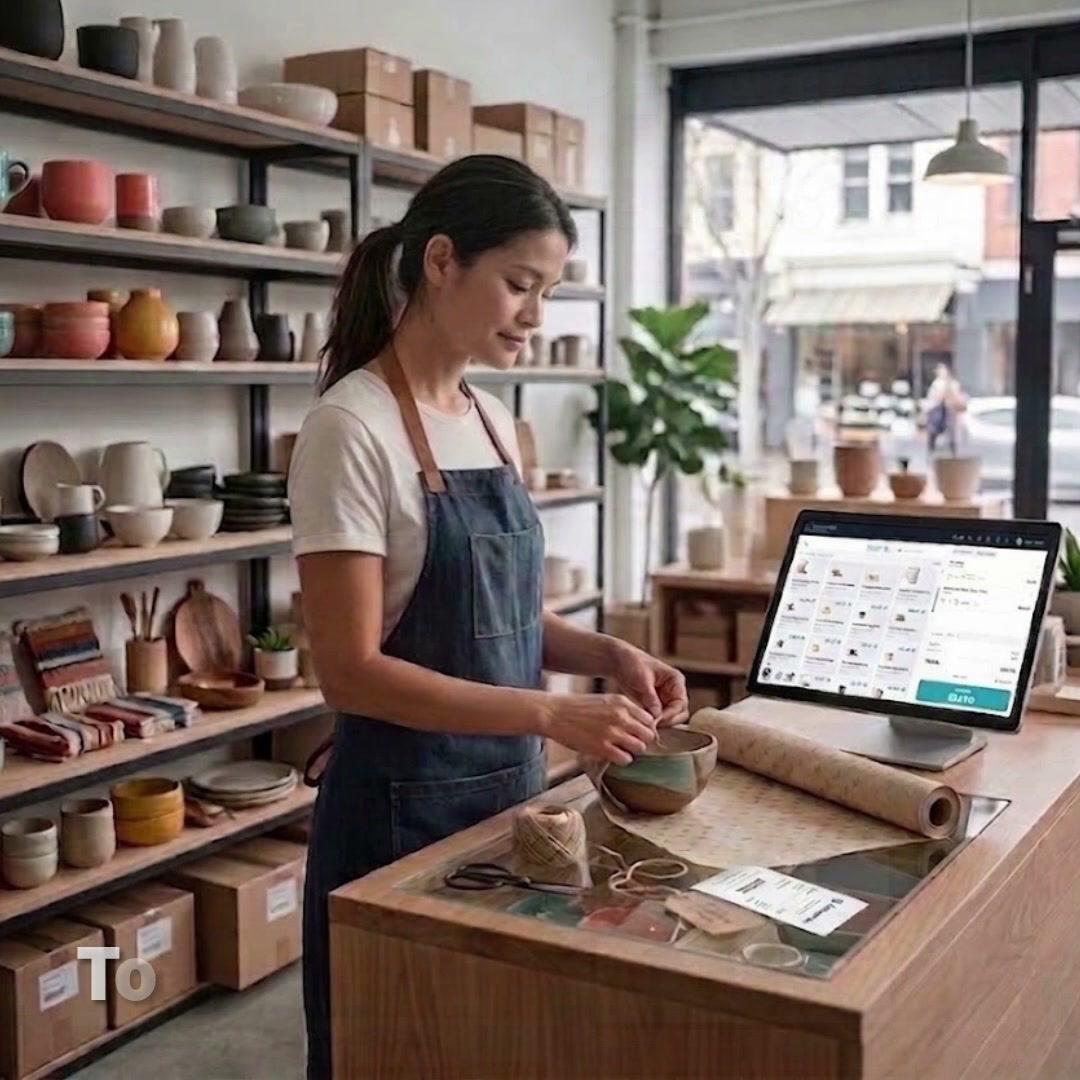
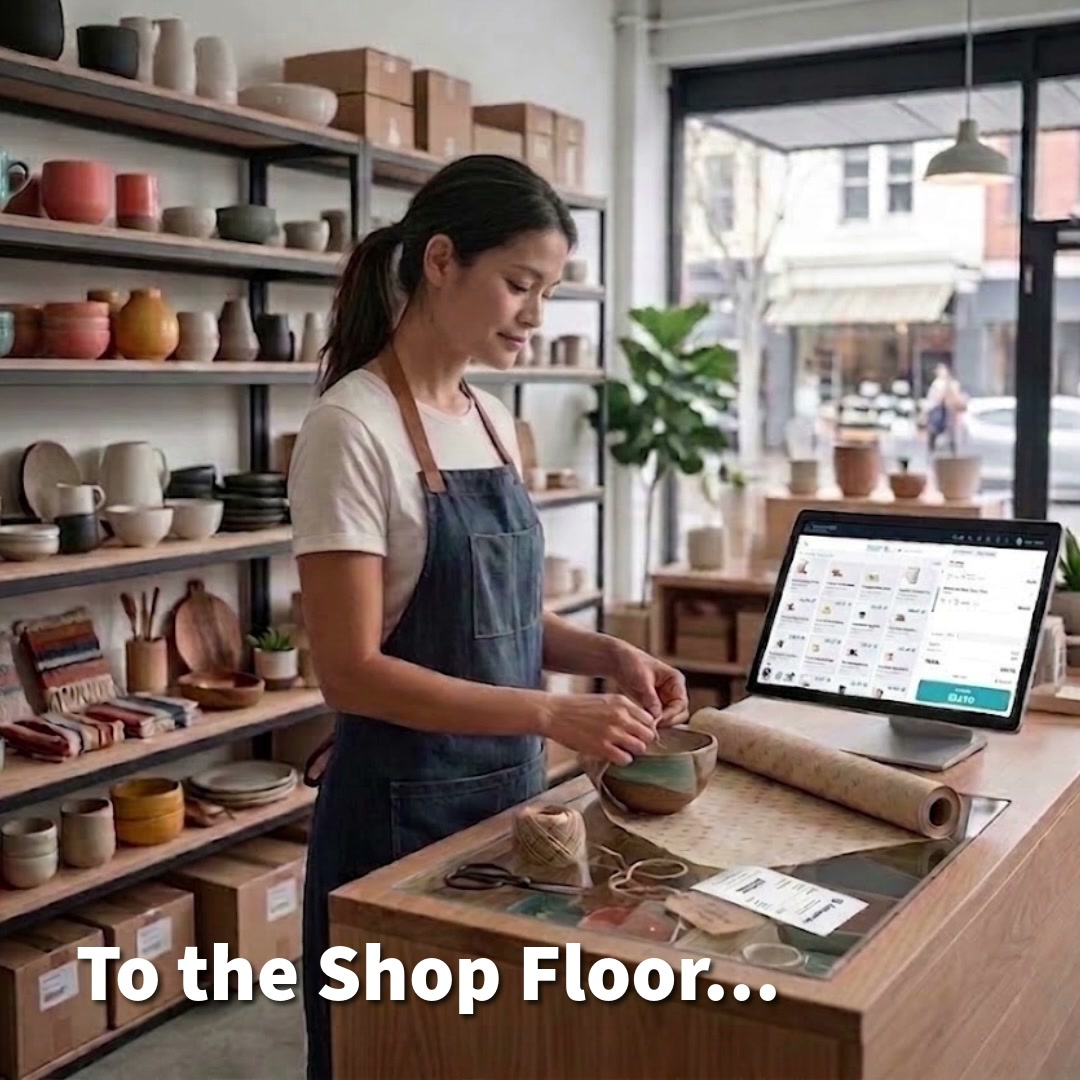
stuff

Changed region(s): [[0.0611, 0.8556, 0.7333, 0.9472]]

diff --git a/src/components/SolvantisMark.tsx b/src/components/SolvantisMark.tsx
@@ -17,25 +17,21 @@ export function SolvantisMark({
   style,
   title,
 }: SolvantisMarkProps) {
-  const isReversed = variant === 'reversed' || variant === 'tile';
-  const isMono = variant === 'mono';
-  const markColor = isMono ? 'currentColor' : isReversed ? '#35BFD6' : '#1EA8C2';
+  const source = variant === 'tile'
+    ? '/brand/solvantis-favicon.svg?v=20260822'
+    : variant === 'mono'
+      ? '/brand/solvantis-symbol-mono.svg?v=20260822'
+      : '/brand/solvantis-symbol.svg?v=20260822';
 
   return (
-    <svg
-      xmlns="http://www.w3.org/2000/svg"
-      viewBox="0 0 305 306.5"
+    <img
+      src={source}
+      alt={title ?? ''}
       width={size}
       height={size}
       className={className}
-      style={{ flexShrink: 0, ...style }}
-      role={title ? 'img' : undefined}
-      aria-label={title}
+      style={{ width: size, height: size, flexShrink: 0, objectFit: 'contain', ...style }}
       aria-hidden={title ? undefined : true}
-    >
-      {variant === 'tile' && <rect width="305" height="306.5" rx="60" fill="#0F172A" />}
-      <path fill={markColor} d="M276.51,92.61c2.17,2.53,4.5,5.02,6.76,7.44l.26.65-14.98,17.24-44.86-51.63c-4.18-4.13-10.07-7.22-15.63-7.68-19.64-1.61-40.95,1.23-60.77.02-5.85.91-10.9,3.25-15.35,7.66-8.71,8.65-17.42,20.17-25.6,29.68-6.16,7.15-14.12,14.96-19.68,22.48-4.06,5.49-5.32,12.45-3.48,19.35,1.25,4.7,4.21,7.88,7.06,11.36,17.73,21.67,37.35,42.02,55.25,63.58,1.67,1.74,3.72,2.55,5.95,2.73,9.92.82,20.69-.65,30.7,0,2.1-.21,3.87-1.07,5.5-2.57,3.54-3.24,10.73-11.64,13.71-15.68.41-.55.78-1.12,1.13-1.72l-40.03-46.54c-.3-.67,1.71-2.71,2.25-3.24,7.47-7.37,18.39-7.47,25.77.17,9.13,9.45,18.57,21.9,27.24,32.23,6.56,7.82,14.87,14.22,7.46,26.25-14.27,13.73-22.75,34.46-43.33,35.64-9.27.53-21.45.58-30.71,0-12.89-.81-17.05-5.92-25.45-15.54-13.08-14.98-26.09-29.98-39.02-45s-27.13-26.57-25.92-50.45c.86-16.91,8.35-25.01,17.86-36.15,11.22-13.15,22.74-26.14,34.13-39.01,10.24-11.57,19.04-18.85,34.23-19.8,20.3.98,41.48-1.25,61.68,0,10.41.65,20.53,5.52,28.44,13.14,13.21,15.06,26.37,30.17,39.42,45.4Z" />
-      <path fill={markColor} d="M70.4,211.16c1.12-1.26,2.58-2.42,3.62-3.86l44.37,51.14c4.96,4.88,10.72,7.41,17.27,7.85,20.59,1.37,42.7-.7,63.37-.45,4.88-.85,9.05-3.25,12.88-6.73l44.23-50.63c6.98-10.11,5.45-20.55-1.77-29.66-5.05-6.38-10.83-12.22-16.1-18.39-9.92-11.63-19.83-23.25-29.78-34.79-5.41-6.27-10.83-15.91-18.9-16.55-7.26-.58-18.36-.54-25.64,0-3.31.24-5.92,1.11-8.48,3.59l-14.86,17.46,39.88,46.64c-6.76,9.23-18.66,10.54-27.07,3.38l-35.62-41.05c-4.41-6.15-3.7-12.78.89-18.42,5.26-6.46,11.04-12.66,16.54-18.91,7.19-8.16,13.17-15.91,24.27-16.88,18.9,1.7,38.21-5.98,53.32,10.55,20.49,22.41,39.56,47.46,60,70.08,13.01,17.97,12.02,42.8-1.47,60-15.6,16.29-29.72,36.04-45.42,51.99-7.37,7.49-16.67,11.99-26.52,12.94-22.02-1.1-45.14,1.48-67.03.02-9.77-.65-19.91-5.46-27.24-12.8-14.13-14.14-26.78-32.21-40.81-46.7l-5.22-6.32c.92-2.19,2.82-3.52,4.19-5.1,2.38-2.75,4.68-5.7,7.1-8.41Z" />
-    </svg>
+    />
   );
 }

diff --git a/src/app/api/wholesale/orders/[id]/submit/route.ts b/src/app/api/wholesale/orders/[id]/submit/route.ts
@@ -307,7 +307,7 @@ export async function POST(_req: Request, { params }: Ctx) {
         html: `
           <div style="font-family:system-ui,sans-serif;max-width:620px;margin:0 auto;padding:32px;background:#fff;border-radius:12px;">
             <div style="display:flex;align-items:center;gap:12px;margin-bottom:24px;">
-              <img src="${appUrl}/brand/png/solvantis-icon-192.png" width="38" height="38" alt="Solvantis" style="display:block;border-radius:8px;flex-shrink:0;" />
+              <img src="${appUrl}/brand/png/solvantis-icon-192.png?v=20260822" width="38" height="38" alt="Solvantis" style="display:block;border-radius:8px;flex-shrink:0;" />
               <div>
                 <h1 style="margin:0;font-size:18px;font-weight:800;color:#0f172a;">New Wholesale Order</h1>
                 <p style="margin:0;font-size:13px;color:#64748b;">A customer has submitted an order via the Wholesale Portal</p>

diff --git a/src/app/layout.tsx b/src/app/layout.tsx
@@ -6,10 +6,10 @@ export const metadata: Metadata = {
   description: 'Multichannel POS, inventory, ecommerce, and retail intelligence.',
   icons: {
     icon: [
-      { url: '/brand/solvantis-favicon.svg', type: 'image/svg+xml' },
-      { url: '/brand/png/solvantis-icon-32.png', type: 'image/png', sizes: '32x32' },
+      { url: '/brand/solvantis-favicon.svg?v=20260822', type: 'image/svg+xml' },
+      { url: '/brand/png/solvantis-icon-32.png?v=20260822', type: 'image/png', sizes: '32x32' },
     ],
-    apple: [{ url: '/brand/png/solvantis-icon-192.png', sizes: '192x192', type: 'image/png' }],
+    apple: [{ url: '/brand/png/solvantis-icon-192.png?v=20260822', sizes: '192x192', type: 'image/png' }],
   },
 };
 

diff --git a/src/app/_landing.tsx b/src/app/_landing.tsx
@@ -183,8 +183,8 @@ export default function Landing() {
               <div className="rounded-2xl overflow-hidden shadow-2xl shadow-black/60 border border-white/10 bg-slate-950/40">
                 <video
                   ref={heroVideoRef}
-                  src="/landing/top%20banner.mp4?v=20260819-0852"
-                  poster="/landing/top-banner-poster.jpg"
+                  src="/landing/top%20banner.mp4?v=20260822"
+                  poster="/landing/top-banner-current-poster.jpg?v=20260822"
                   muted
                   loop
                   playsInline
